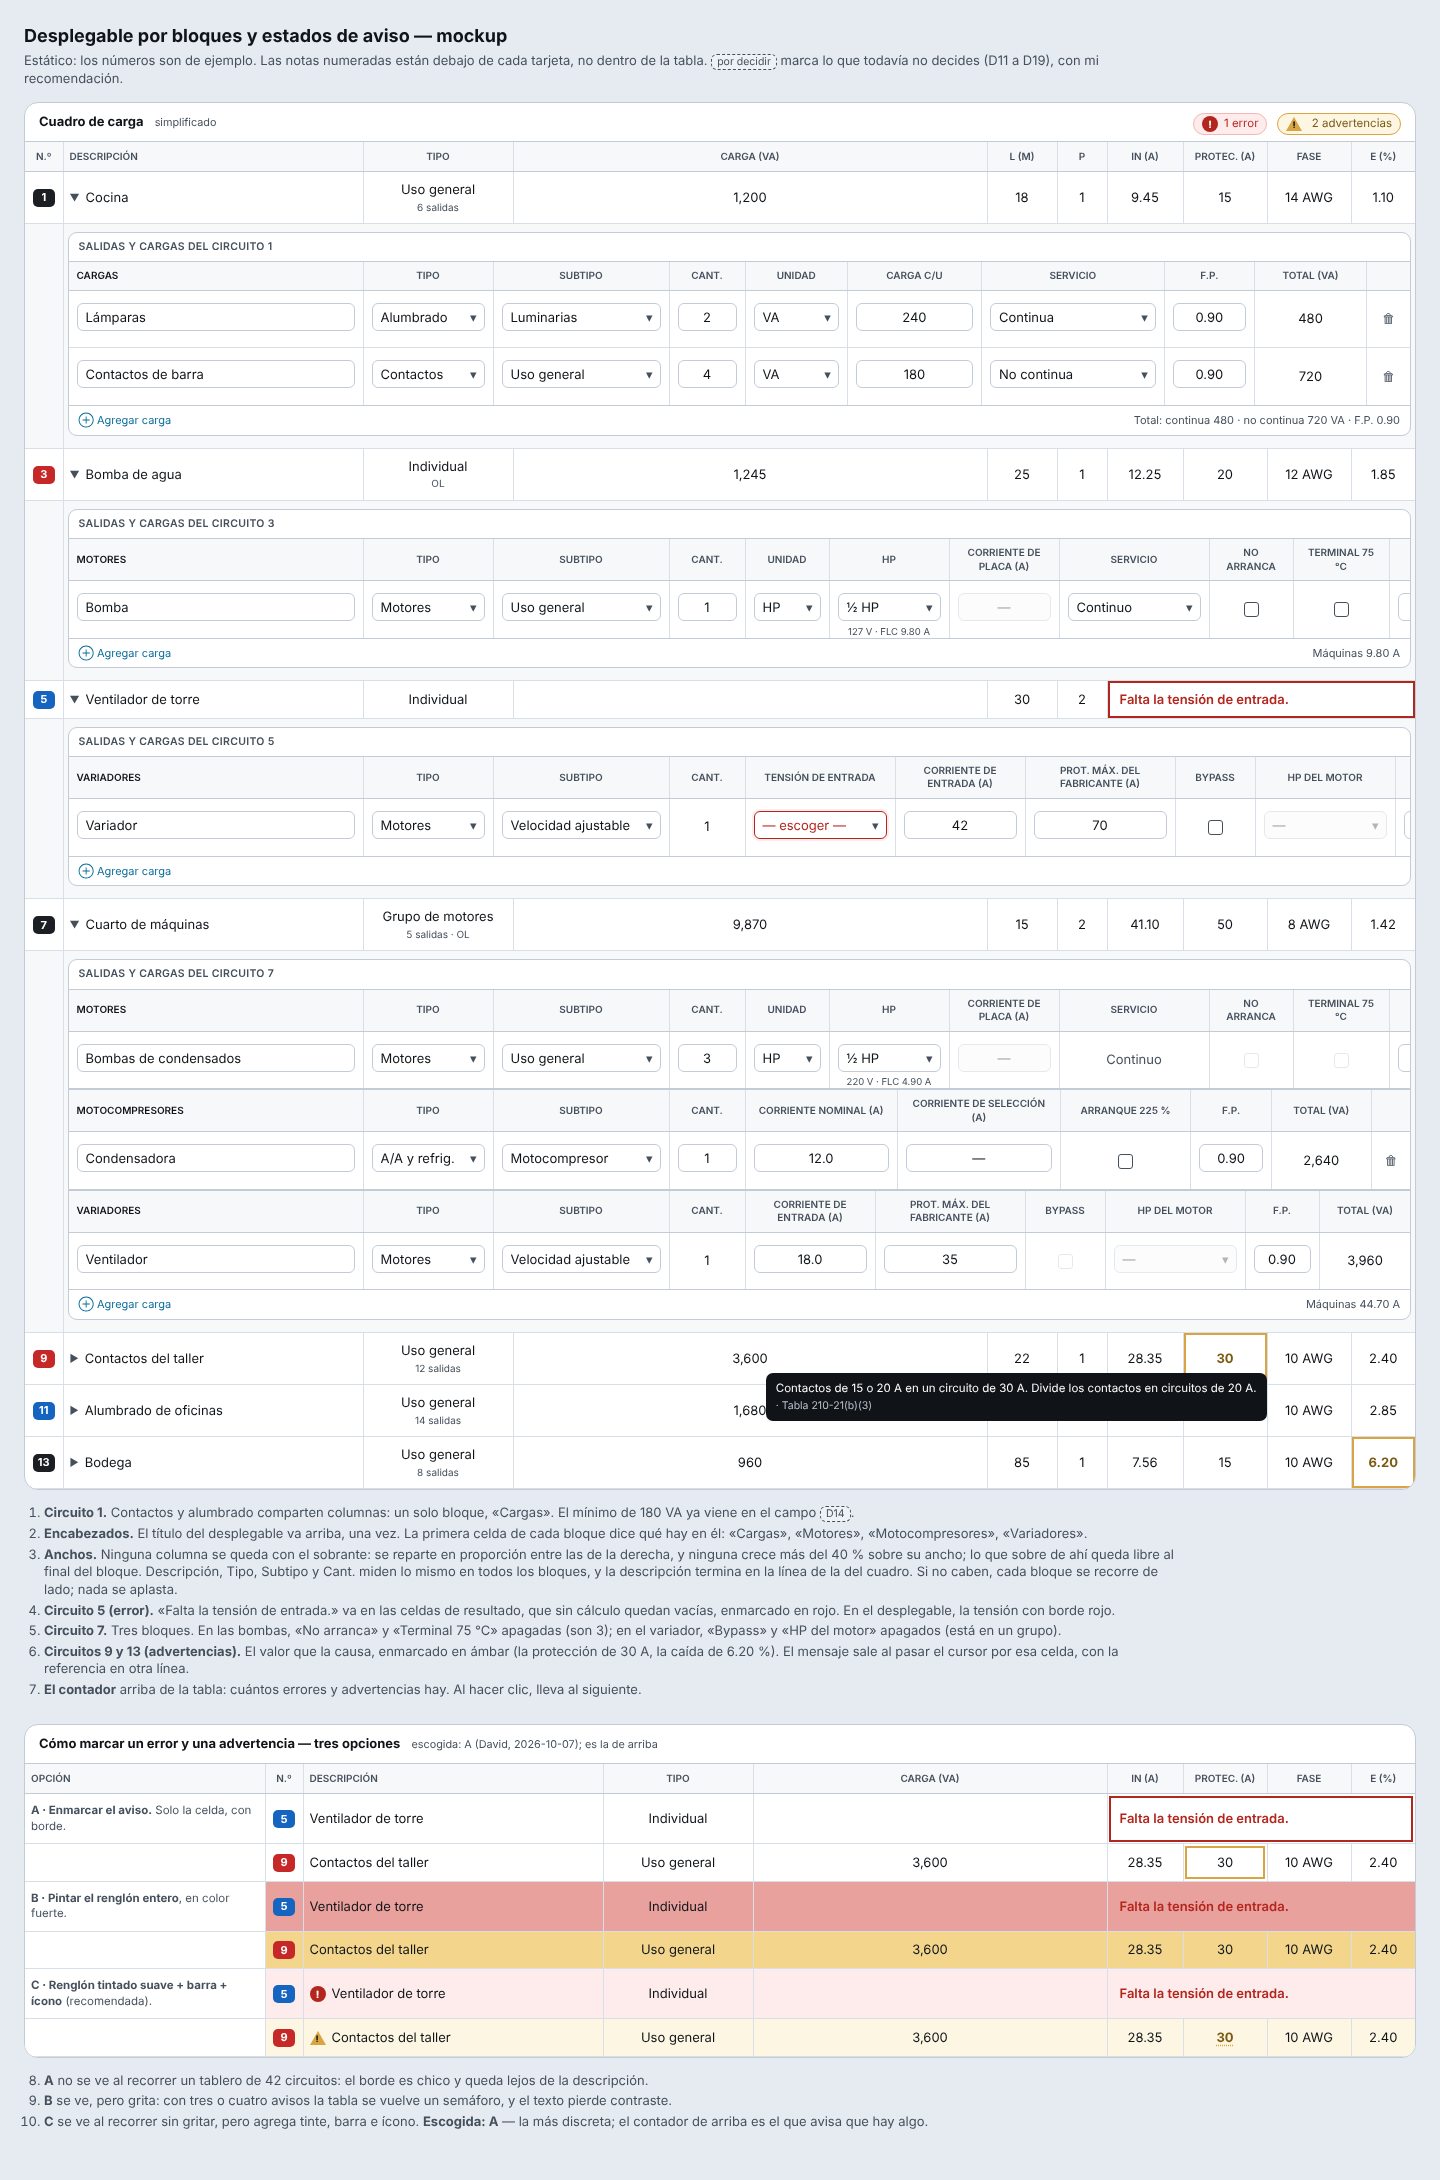
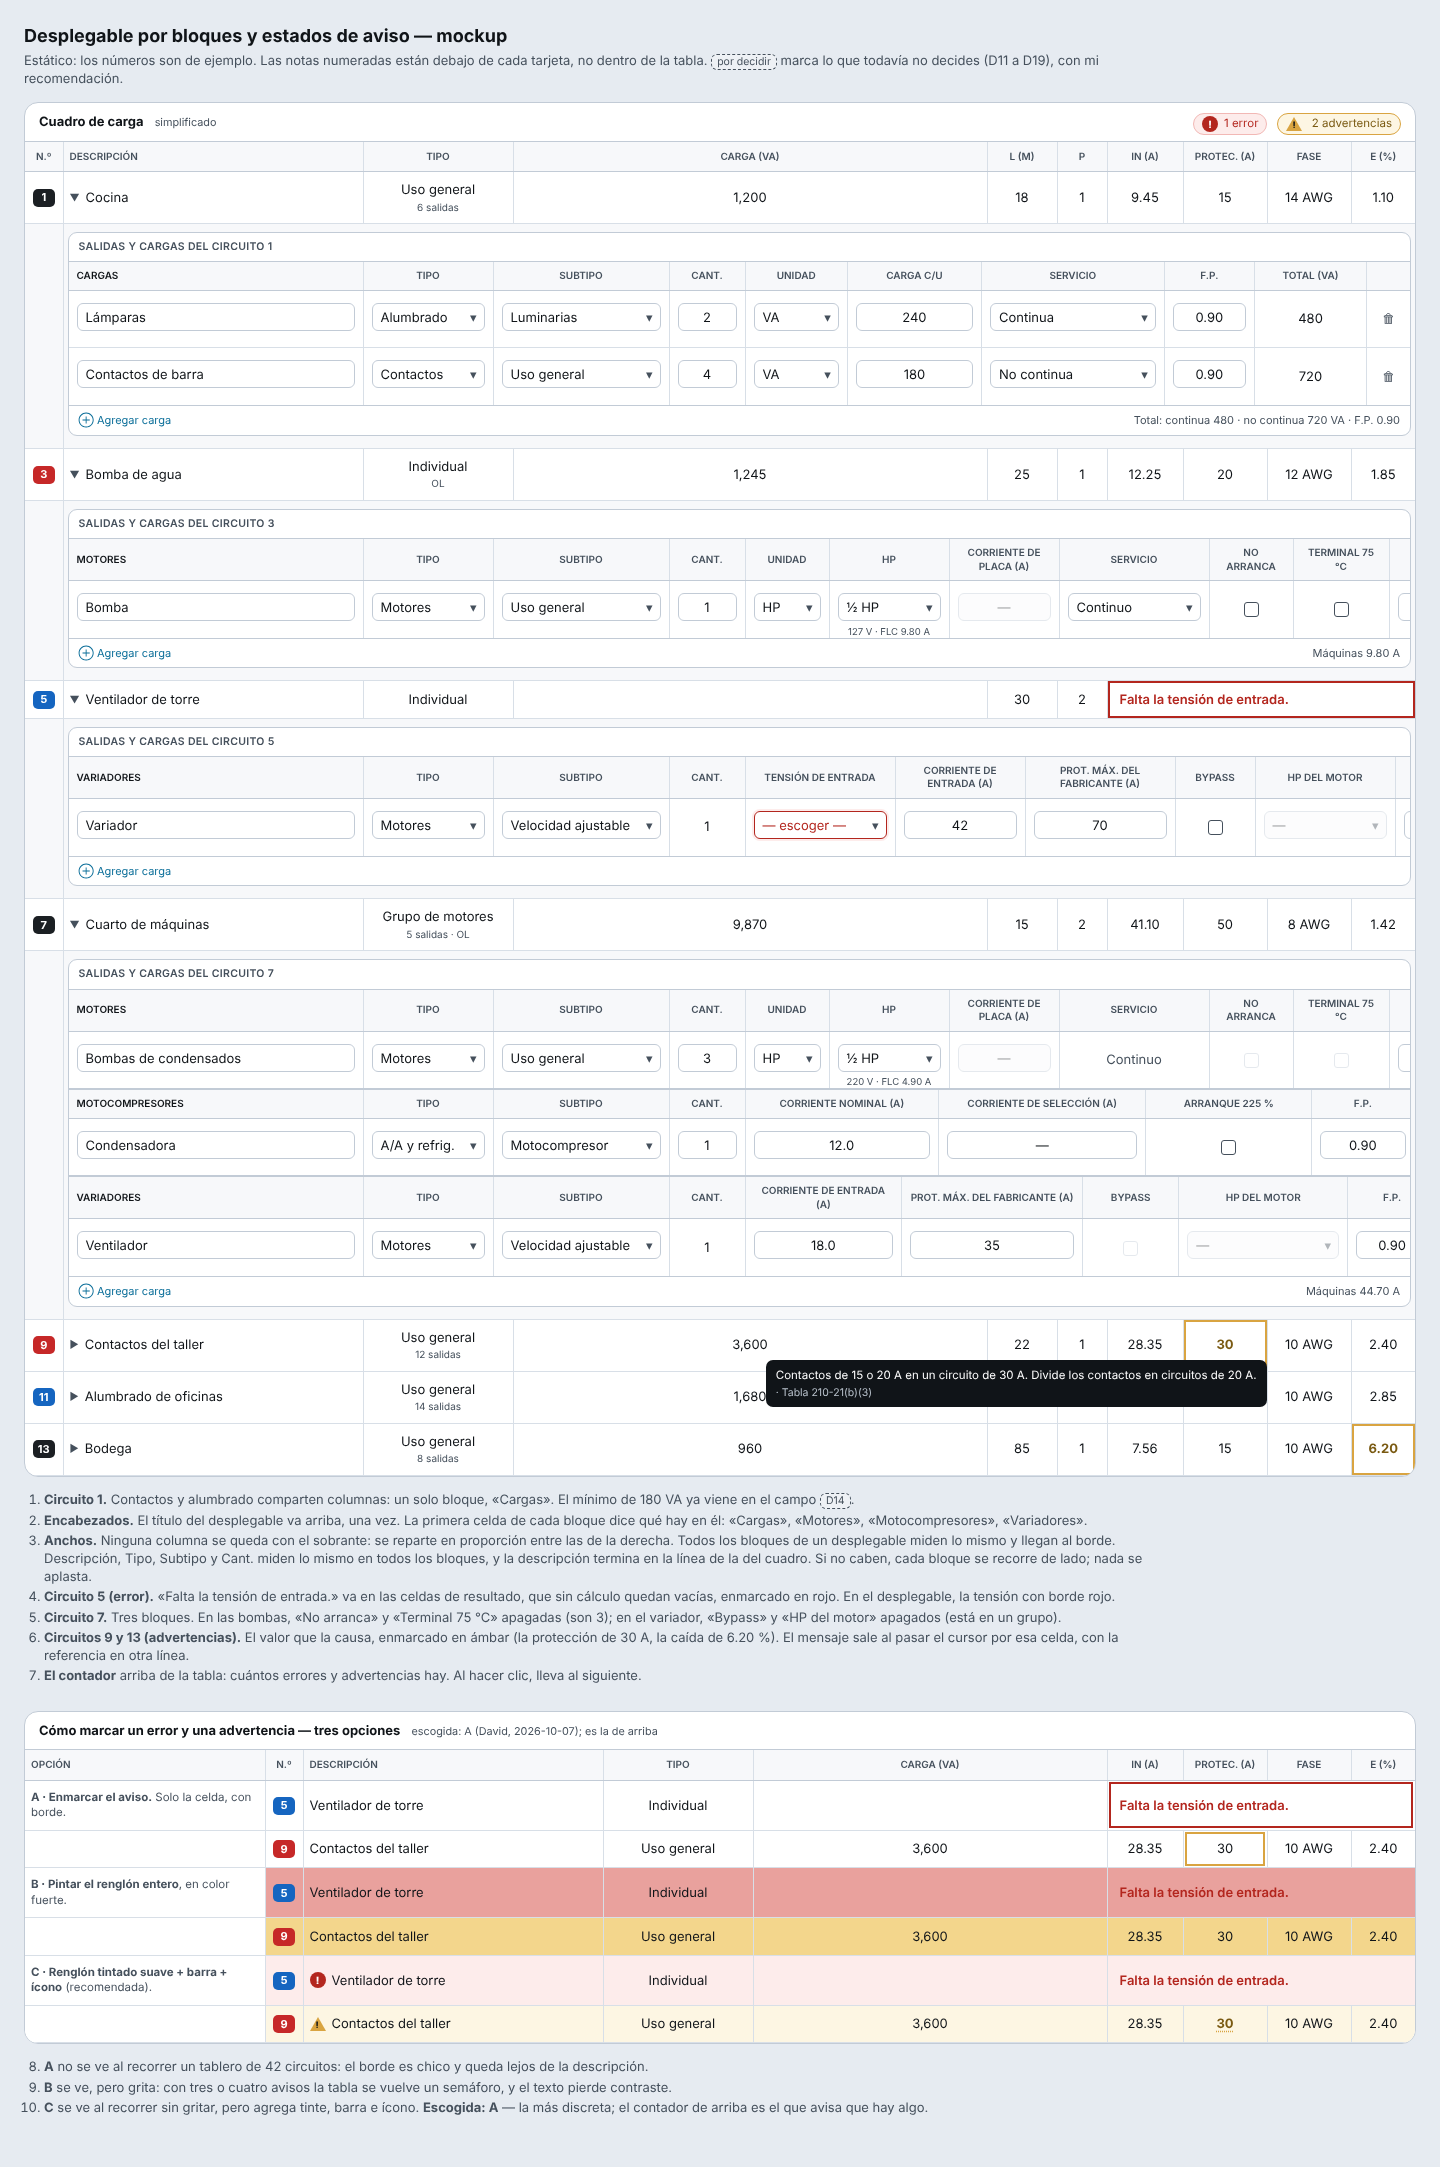
Docs: mockup — todos los bloques de un desplegable del mismo largo, hasta el borde
El tope de 40 % dejaba cortos los bloques con pocas columnas, sin fondo ni líneas a la derecha.

Claude-Session: https://claude.ai/code/session_01MnxpHgfUvDcquuwT9pQmd6

diff --git a/docs/mockups/desglose-por-bloques.html b/docs/mockups/desglose-por-bloques.html
@@ -221,7 +221,7 @@ tr.fila-desglose > td { background:var(--fondo-suave); padding:8px 4px 12px; tex
 <ol class="notas">
   <li><b>Circuito 1.</b> Contactos y alumbrado comparten columnas: un solo bloque, «Cargas». El mínimo de 180 VA ya viene en el campo <span class="pendiente">D14</span>.</li>
   <li><b>Encabezados.</b> El título del desplegable va arriba, una vez. La primera celda de cada bloque dice qué hay en él: «Cargas», «Motores», «Motocompresores», «Variadores».</li>
-  <li><b>Anchos.</b> Ninguna columna se queda con el sobrante: se reparte en proporción entre las de la derecha, y ninguna crece más del 40 % sobre su ancho; lo que sobre de ahí queda libre al final del bloque. Descripción, Tipo, Subtipo y Cant. miden lo mismo en todos los bloques, y la descripción termina en la línea de la del cuadro. Si no caben, cada bloque se recorre de lado; nada se aplasta.</li>
+  <li><b>Anchos.</b> Ninguna columna se queda con el sobrante: se reparte en proporción entre las de la derecha. Todos los bloques de un desplegable miden lo mismo y llegan al borde. Descripción, Tipo, Subtipo y Cant. miden lo mismo en todos los bloques, y la descripción termina en la línea de la del cuadro. Si no caben, cada bloque se recorre de lado; nada se aplasta.</li>
   <li><b>Circuito 5 (error).</b> «Falta la tensión de entrada.» va en las celdas de resultado, que sin cálculo quedan vacías, enmarcado en rojo. En el desplegable, la tensión con borde rojo.</li>
   <li><b>Circuito 7.</b> Tres bloques. En las bombas, «No arranca» y «Terminal 75 °C» apagadas (son 3); en el variador, «Bypass» y «HP del motor» apagados (está en un grupo).</li>
   <li><b>Circuitos 9 y 13 (advertencias).</b> El valor que la causa, enmarcado en ámbar (la protección de 30 A, la caída de 6.20 %). El mensaje sale al pasar el cursor por esa celda, con la referencia en otra línea.</li>
@@ -256,17 +256,20 @@ tr.fila-desglose > td { background:var(--fondo-suave); padding:8px 4px 12px; tex
 function anchos() {
   const th = document.getElementById('th-desc').getBoundingClientRect();
   document.querySelectorAll('.recorre').forEach(r => {
-    const izq = r.getBoundingClientRect().left;
-    const desc = th.right - izq;
-    r.querySelectorAll('table.bloque').forEach(t => {
+    const desc = th.right - r.getBoundingClientRect().left;
+    const tablas = [...r.querySelectorAll('table.bloque')];
+    const datos = tablas.map(t => {
       const cols = [...t.querySelectorAll('col')];
       const base = cols.reduce((s, c) => s + (+c.dataset.w || 0), 0);
-      // Descripción, Tipo, Subtipo y Cant. miden lo mismo en todos los bloques: el sobrante, solo a las demás.
       const repartible = cols.filter(c => c.dataset.w && !c.hasAttribute('data-g')).reduce((s, c) => s + (+c.dataset.w), 0);
-      // Ninguna crece más del 40 % sobre su base: lo que sobre de ahí se queda libre a la derecha.
-      const ancho = Math.min(Math.max(r.clientWidth, base + desc), base + desc + 0.4 * repartible);
+      return { t, cols, base, repartible };
+    });
+    // Todos los bloques de un desplegable, del mismo largo: el del desplegable, o el del bloque más ancho si no cabe.
+    const ancho = Math.max(r.clientWidth, ...datos.map(d => d.base + desc));
+    datos.forEach(({ t, cols, base, repartible }) => {
       t.style.width = ancho + 'px';
       const sobra = ancho - base - desc;
+      // Descripción, Tipo, Subtipo y Cant., iguales en todos; el sobrante, en proporción entre las demás.
       cols.forEach(c => { c.style.width = c.hasAttribute('data-desc') ? desc + 'px'
         : c.hasAttribute('data-g') ? c.dataset.w + 'px' : ((+c.dataset.w) + sobra * (+c.dataset.w) / repartible) + 'px'; });
     });

diff --git a/docs/decisiones/acomodo-del-desplegable.md b/docs/decisiones/acomodo-del-desplegable.md
@@ -130,7 +130,9 @@ con la propuesta de Claude (tres niveles y un puente a la memoria) en cada rengl
 [`../mockups/desglose-por-bloques.html`](../mockups/desglose-por-bloques.html) (capturas a 1900 y 1440 px), 2026-10-07,
 segunda versión con las observaciones de David: el título del desplegable arriba y el nombre de cada bloque
 en su primera celda («Cargas», «Motores», «Motocompresores», «Variadores»); el sobrante repartido entre las
-columnas de la derecha, con tope de 40 % (Descripción, Tipo, Subtipo y Cant., iguales en todos los bloques);
+columnas de la derecha (Descripción, Tipo, Subtipo y Cant., iguales en todos los bloques); todos los bloques
+de un desplegable del mismo largo, hasta el borde (David: «¿por qué tienen diferente longitud y les faltan
+bordes?» — el tope de 40 % los dejaba cortos);
 si no caben, el bloque se recorre de lado; el error, dentro del renglón del circuito; las notas, fuera de la
 tabla. Los estados de error y advertencia: [`../conocimiento/estados-de-aviso.md`](../conocimiento/estados-de-aviso.md).
 
